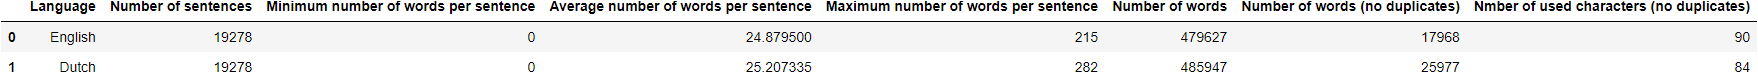
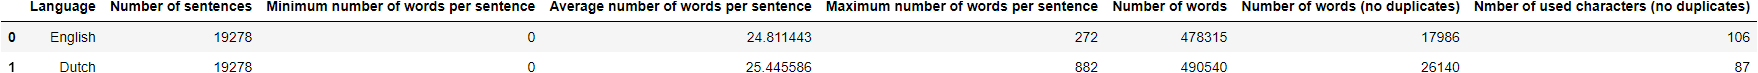
attention model works

diff --git a/final_final.py b/final_final.py
@@ -7,6 +7,7 @@ from keras.layers import RepeatVector, GRU, Dense, TimeDistributed, Embedding #A
 from keras.preprocessing.text import Tokenizer
 from keras_preprocessing.sequence import pad_sequences
 from keras.initializers import Constant # for matrix with pre-trained embedding weights
+from keras_self_attention import SeqSelfAttention as Attention
 from gensim.models import KeyedVectors # to load in pretrained word2vec weights
 import dataframe_image as dfi
 
@@ -43,7 +44,14 @@ dfi.export(summary_corpus, "documentation/tables_as_image/summary_corpus.png")
 #idx_short_sentences = list(set(nl_idx_short_sentences) & set(eng_idx_short_sentences))
 #corpus_short = corpus.filter(items=idx_short_sentences, axis=0)
 #sample = corpus_short.sample(round(len(corpus_short) * 0.05))
-sample = corpus.sample(round(len(corpus) * 0.01))
+def get_suitable_sample(): # due to limited resources this function is crucial for not having an outlier like a sentence with an unusally high amount of words which makes lower code not work due to not enough CPU
+    sample = corpus.sample(round(len(corpus) * 0.01))
+    eng_max_num_word_per_sentence = max([len(sentence.split()) for sentence in sample.eng])
+    nl_max_num_word_per_sentence = max([len(sentence.split()) for sentence in sample.nl])
+    if eng_max_num_word_per_sentence > 500 or nl_max_num_word_per_sentence > 500:
+        sample = get_suitable_sample()
+    return sample
+sample = get_suitable_sample()
 
 # transform english and dutch corpus into single numpy arrays for frther steps
 eng_sentences = np.array(sample.eng)
@@ -61,6 +69,7 @@ def clean_sentence(sentence):
 def tokenize(sentences, character_based = False):
     # Create tokenizer
     text_tokenizer = Tokenizer(char_level=character_based)
+
     # Fit texts
     text_tokenizer.fit_on_texts(sentences)
     return text_tokenizer.texts_to_sequences(sentences), text_tokenizer
@@ -243,7 +252,6 @@ nl2eng_word2vec_embd_encdec_word_model = embd_encdec_model(nl_pad_sentence_word.
 #from attention_keras.src.layers.attention import AttentionLayer
 
 # try to use kears' built in attention layer: https://www.google.com/search?q=how+to+use+keras%27+attention+layer&rlz=1C1CHBF_deDE912DE912&oq=how+to+use+keras%27+attention+layer&aqs=chrome..69i57j0i22i30j0i390l5.768642j0j9&sourceid=chrome&ie=UTF-8
-from keras_self_attention import Attention
 def attention_embd_encdec_model(input_shape, output_max_len, output_vocab_size, input_vocab_size, embedding_matrix):
     model = Sequential()
     model.add(Embedding(input_vocab_size, embedding_matrix.shape[1], input_length=input_shape[1], embeddings_initializer=Constant(embedding_matrix)))
@@ -271,6 +279,12 @@ nl2eng_attention_word2vec_embd_encdec_word_model = attention_embd_encdec_model(n
 
 model_training_manuals = [
     {   
+        "title" : "English to Dutch translator (word-based, Word2Vec embedding, with attention)",
+        "model" : eng2nl_attention_word2vec_embd_encdec_word_model,
+        "X" : eng_pad_sentence_word,
+        "y" : nl_pad_sentence_word
+    },
+    {   
         "title" : "English to Dutch translator (word-based)",
         "model" : eng2nl_encdec_word_model,
         "X" : eng_pad_sentence_word,
@@ -294,12 +308,7 @@ model_training_manuals = [
         "X" : nl_pad_sentence_word,
         "y" : eng_pad_sentence_word
     },
-    {   
-        "title" : "English to Dutch translator (word-based, Word2Vec embedding, with attention)",
-        "model" : eng2nl_attention_word2vec_embd_encdec_word_model,
-        "X" : eng_pad_sentence_word,
-        "y" : nl_pad_sentence_word
-    },
+    
     {   
         "title" : "English to Dutch translator (word-based, Glove embedding, with attention)",
         "model" : eng2nl_attention_glove_embd_encdec_word_model,
@@ -399,4 +408,4 @@ for manual in model_training_manuals:
 
 #function for converting tokenized data to text
 def toText(sentence, vocab):
-
+    return ""
